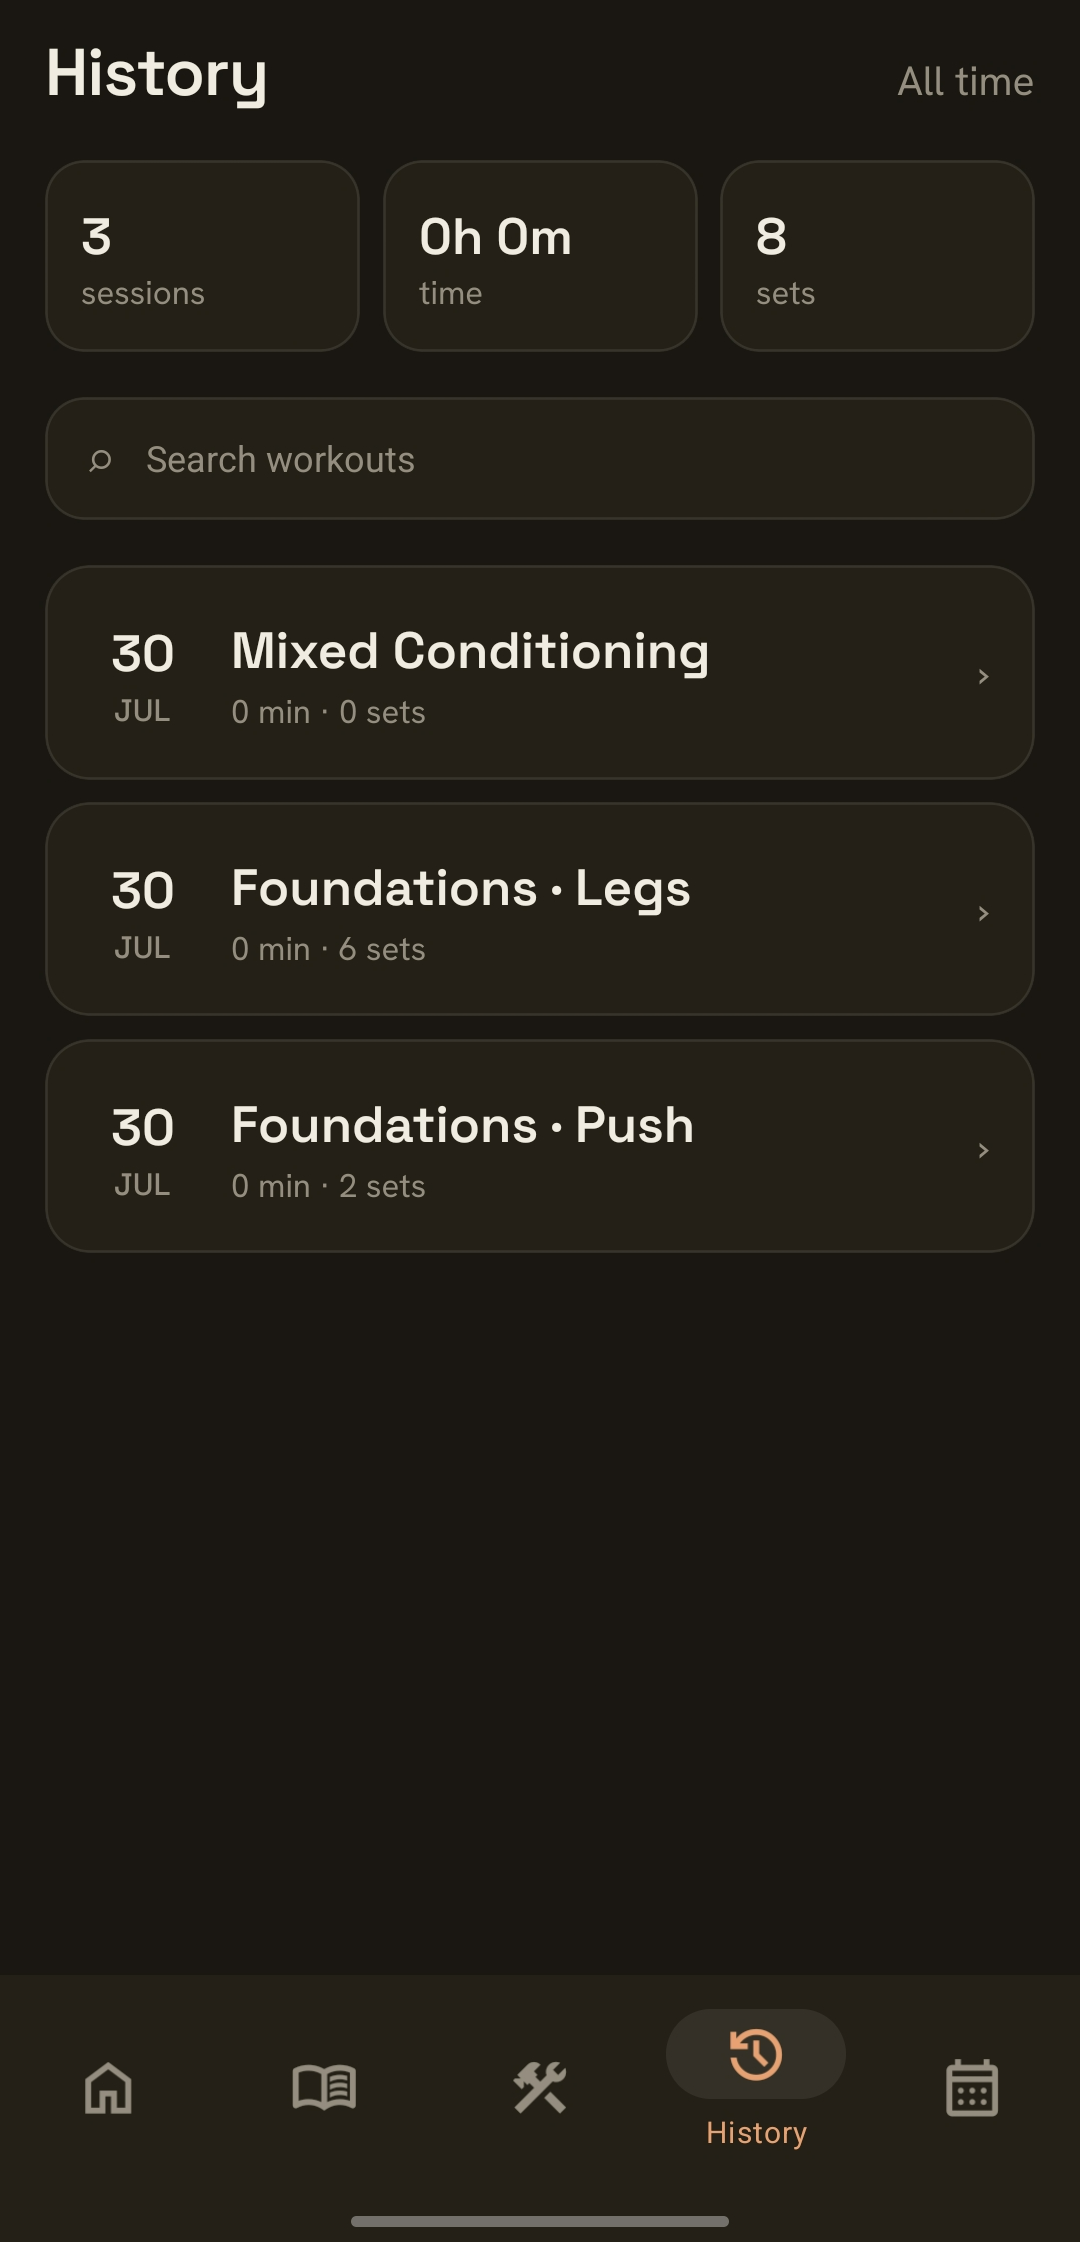
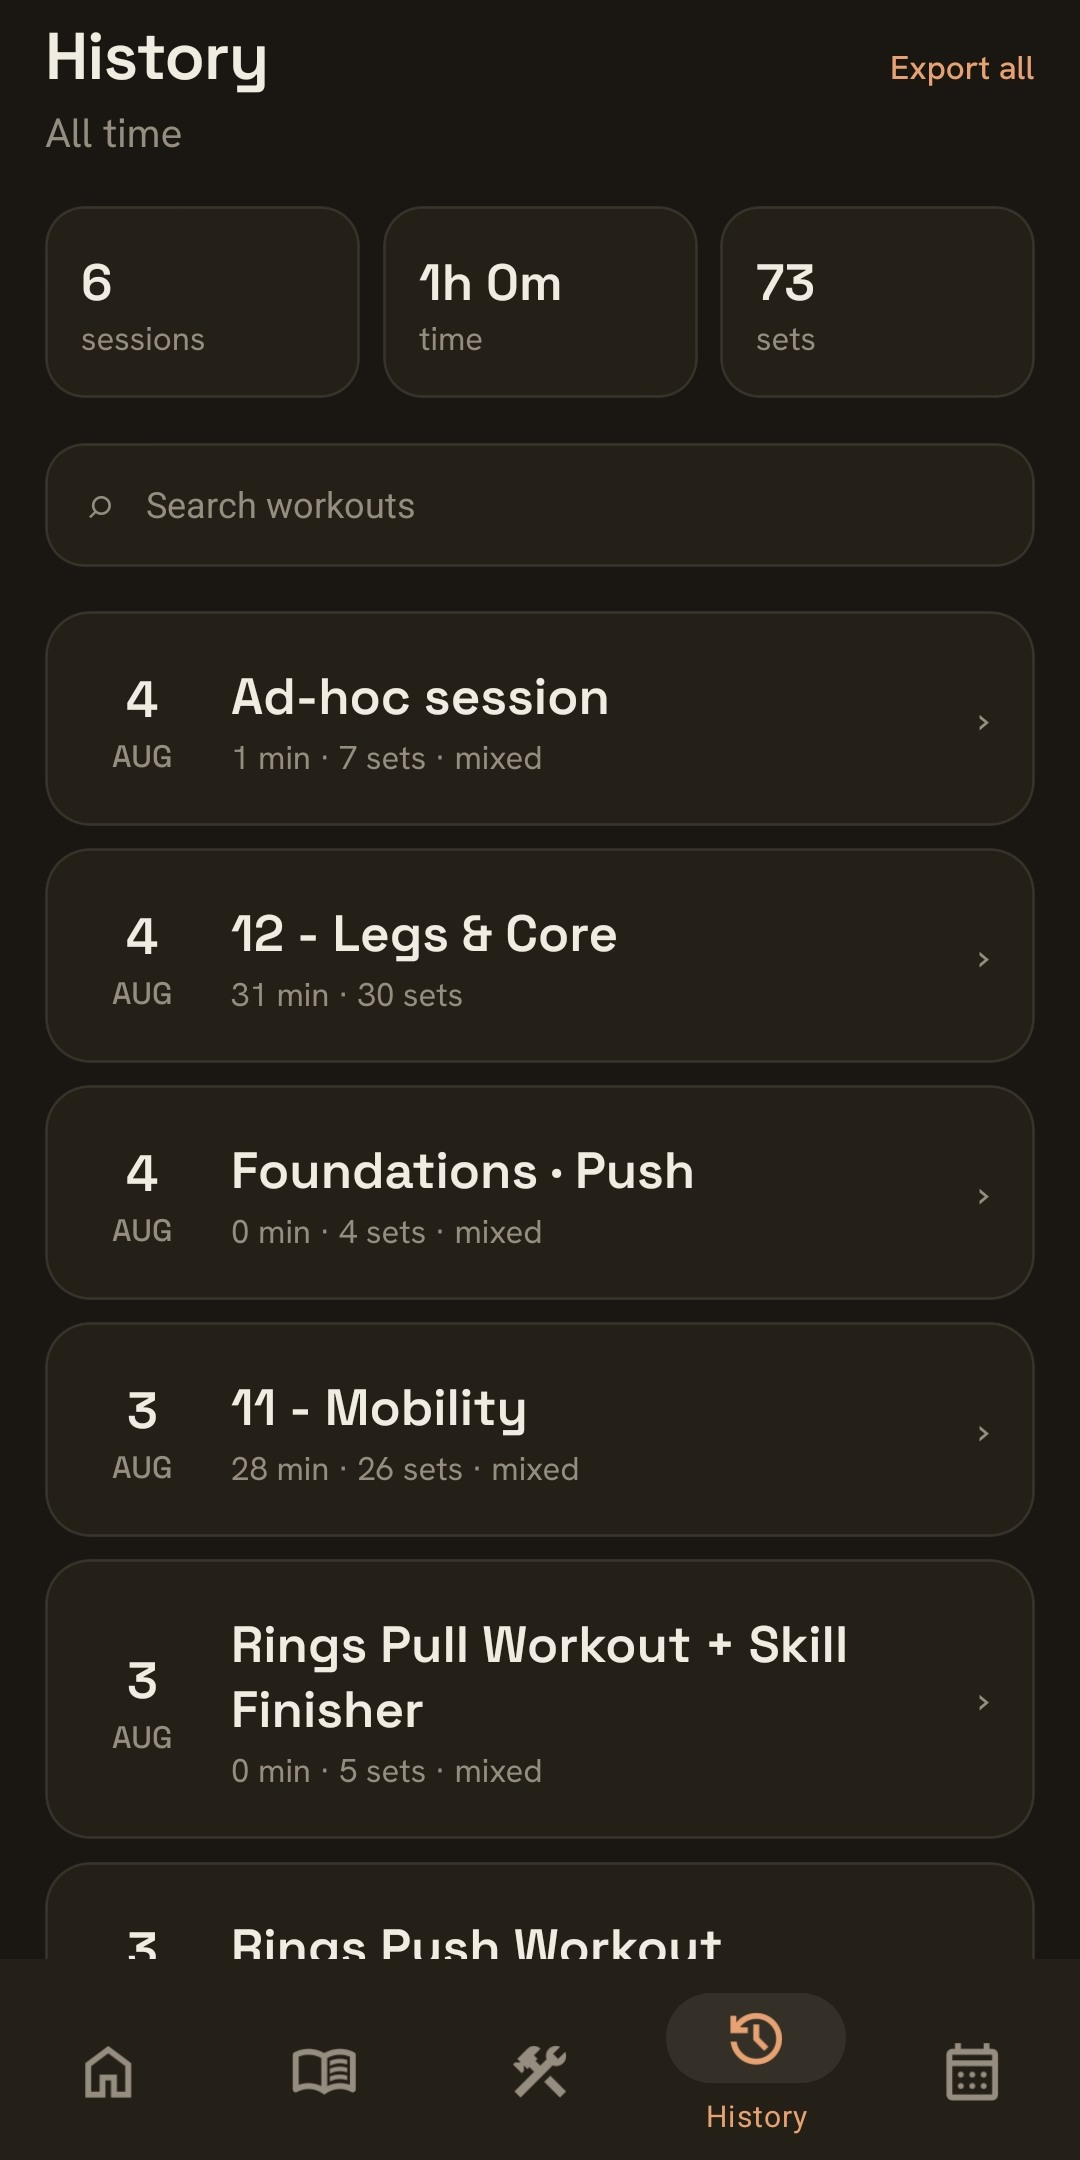
Re-capture the screenshots against a populated library, runner leading
The captures dated from 30 July, before any of the August work. The landing
page had just been rewritten (#58) to claim the set row shows what you
lifted last time and marks a record as it happens — beside a screenshot of
a set row with neither. The alt text described the old screen too, which is
what a screen-reader user got instead of the picture. Closes #59.

New captures from a real library: 347 exercises, 27 workouts, six logged
sessions, a non-zero streak, an ad-hoc session in the history list. The old
lead showed a zeroed streak and an empty Recent, which the issue called the
worst possible first impression.

Trimmed for Play rather than letterboxed. Sources are 1080x2340; the status
bar (y 32..71) and the gesture pill (y 2314..2324) are both removed and the
result is exactly 1080x2160 — 2x the width, which is Play's ceiling. The
crop window is centred on each screen's own content rather than fixed,
because the layouts differ: the runner has no tab bar and its action button
sits ~70px lower than the tab bar does elsewhere, so one window either
clipped that button or left the tab screens lopsided. Boundaries were
measured off the pixels, not guessed, and the reps shots were re-checked
after cropping to confirm the PR pill survived.

session-hiit is still the July capture — the interval screen did not change
in the August work, so it remains accurate — put through the same trim so it
matches the rest.
[…]

diff --git a/site/index.html b/site/index.html
@@ -168,9 +168,9 @@
                   <div class="screen">
                     <img
                       src="assets/img/today.jpg"
-                      alt="Kettle home screen showing today's workout, Foundations · Push, queued as Week 1 Day 1 with a Start session button."
+                      alt="Kettle home screen: a 2-day streak and 6 sessions this week, with 09 - Push queued as week 6 Wednesday — its blocks listed as chips, an estimated 32 minutes, and Start session below."
                       width="1080"
-                      height="2242"
+                      height="2160"
                       loading="lazy" />
                   </div>
                 </div>
@@ -214,7 +214,7 @@
                       src="assets/img/session-hiit.jpg"
                       alt="Session runner mid-HIIT: Burpees, round 1 of 4, a large 0:38 countdown of 0:40 total, with Pause and Skip controls."
                       width="1080"
-                      height="2242"
+                      height="2160"
                       loading="lazy" />
                   </div>
                 </div>
@@ -222,9 +222,19 @@
                   <div class="screen">
                     <img
                       src="assets/img/session-reps.jpg"
-                      alt="Session runner for a reps set: Push-ups, set 1 of 3, target 8–15, a large rep counter, load and RPE inputs, and Log set."
+                      alt="Session runner on a reps set, showing what was lifted last time on that same set number with a PR badge beside it, above a large rep counter, load and RPE controls, and Log set."
                       width="1080"
-                      height="2242"
+                      height="2160"
+                      loading="lazy" />
+                  </div>
+                </div>
+                <div class="phone">
+                  <div class="screen">
+                    <img
+                      src="assets/img/session-hold.jpg"
+                      alt="Session runner on a timed hold, counting up against its target with a progress bar and the next block previewed below."
+                      width="1080"
+                      height="2160"
                       loading="lazy" />
                   </div>
                 </div>
@@ -249,9 +259,9 @@
                   <div class="screen">
                     <img
                       src="assets/img/workouts.jpg"
-                      alt="Workouts list showing seven built workouts such as Foundations · Push and Mixed Conditioning, each with block count and estimated duration."
+                      alt="Workout list, 27 of them: Foundations · Push, Legs and Pull, two Dumbbell Full Body days and Mixed Conditioning, each with a block count, a mixed-type summary and an estimated duration."
                       width="1080"
-                      height="2242"
+                      height="2160"
                       loading="lazy" />
                   </div>
                 </div>
@@ -261,7 +271,7 @@
                       src="assets/img/import.jpg"
                       alt="Import library sheet: choose a YAML file or paste YAML instead, a button to copy the format for an assistant, and a Merge and import action."
                       width="1080"
-                      height="2242"
+                      height="2160"
                       loading="lazy" />
                   </div>
                 </div>
@@ -285,7 +295,7 @@
                       src="assets/img/programs.jpg"
                       alt="Programs list with two multi-week programs: Foundations · 4 Weeks · No Equipment and Dumbbell Strength · 4 Weeks, each noting weeks 1–4 and per-week overrides."
                       width="1080"
-                      height="2242"
+                      height="2160"
                       loading="lazy" />
                   </div>
                 </div>
@@ -293,9 +303,9 @@
                   <div class="screen">
                     <img
                       src="assets/img/today.jpg"
-                      alt="Today screen with the program's next day queued: Foundations · Push, Week 1 Day 1, block chips and an estimated 12 minutes."
+                      alt="Today screen with the program's next day queued automatically: 09 - Push, labelled week 6 Wednesday, with its blocks as chips and a deload note."
                       width="1080"
-                      height="2242"
+                      height="2160"
                       loading="lazy" />
                   </div>
                 </div>
@@ -319,10 +329,20 @@
                 <div class="phone">
                   <div class="screen">
                     <img
-                      src="assets/img/history.jpg"
-                      alt="History screen: three sessions, 8 sets logged all time, a workout search field, and dated entries for Mixed Conditioning and two Foundations sessions."
+                      src="assets/img/session-complete.jpg"
+                      alt="The end of a session: a checkmark, the workout name, and a card marking a personal record for one exercise with an estimated one-rep max under it."
                       width="1080"
-                      height="2242"
+                      height="2160"
+                      loading="lazy" />
+                  </div>
+                </div>
+                <div class="phone">
+                  <div class="screen">
+                    <img
+                      src="assets/img/history.jpg"
+                      alt="History screen: 6 sessions, 73 sets logged all time, a workout search field, and dated entries including an ad-hoc session and several named workouts."
+                      width="1080"
+                      height="2160"
                       loading="lazy" />
                   </div>
                 </div>

diff --git a/store/build-assets.js b/store/build-assets.js
@@ -42,16 +42,33 @@ const ROOT = path.join(__dirname, '..');
 const OUT = path.join(__dirname, 'out');
 
 /**
- * Play: "Maximum dimension cannot exceed twice the minimum dimension." The captures are 1080x2242,
- * and 2 * 1080 is 2160, so they are 82px over and get rejected. Trimmed from the bottom, which is
- * the gesture-pill band and the only strip with nothing worth keeping — letterboxing to fit would
- * put visible bars down both sides instead.
+ * Play: "Maximum dimension cannot exceed twice the minimum dimension." 2 * 1080 is 2160, so that is
+ * the ceiling, and the extract below enforces it however tall the source happens to be.
+ *
+ * The captures used to be 1080x2242 and were trimmed here, from the bottom, because the gesture-pill
+ * band was the only strip with nothing worth keeping. The 2026-08-04 set is cropped to 2160 at
+ * capture time instead — both the status bar and the gesture pill removed, with the window centred on
+ * each screen's own content — so this extract is now a no-op guard rather than the thing doing the
+ * work. It stays for the next capture that arrives oversized. Letterboxing to fit would put visible
+ * bars down both sides, which is why neither approach does it.
  */
 const SHOT_W = 1080;
 const SHOT_H = 2160;
 
-/** Order matters: this is the order they appear in the listing. Runner first, after the hook. */
-const SHOTS = ['today', 'session-reps', 'session-hiit', 'workouts', 'programs', 'history', 'import'];
+/**
+ * Order matters: this is the order they appear in the listing, and Play caps a phone listing at
+ * **eight**. That cap is why this is a chosen subset rather than every screen that has a capture —
+ * `site/assets/img` also holds session-hold, library and settings, which the landing page can afford
+ * to show and the listing cannot.
+ *
+ * The runner leads, per the repositioned pitch (#58): the set row carrying "last time" and the PR
+ * marker is the single image that evidences the claim the listing now opens with, and the completion
+ * screen is the only one showing a named record with an estimated 1RM. Drop either of those before
+ * dropping a list screen and the copy is left unbacked.
+ */
+const SHOTS = ['session-reps', 'session-hiit', 'session-complete', 'today', 'workouts', 'programs', 'history', 'import'];
+
+if (SHOTS.length > 8) throw new Error(`Play allows 8 phone screenshots; SHOTS lists ${SHOTS.length}`);
 
 async function icon() {
   // 512x512 32-bit PNG, sRGB, under 1024 KB. The source is a full square with no transparency and

diff --git a/store/README.md b/store/README.md
@@ -36,15 +36,23 @@ would breach a Play limit — see "What the limits actually are" below.
 | Phone screenshots | `screen-01..07-*.png` | `site/assets/img/*.jpg` |
 
 The screenshots are the **same captures the landing page uses**. One set of images, two consumers —
-re-capture once and both update.
+re-capture once and both update. `site/assets/img` holds more than the listing can show (Play caps a
+phone listing at eight), so `SHOTS` in the script is the chosen subset and its order is the listing's
+order.
 
 ## What the limits actually are
 
 Each of these cost a rejected upload or a wrong guess once, so they are asserted in the script:
 
-- **Screenshots: max dimension ≤ 2× min dimension.** The captures are 1080×2242 and 2×1080 is 2160,
-  so they are 82px too tall as taken. Trimmed from the bottom, which is the gesture-pill band.
-  Letterboxing to fit would put visible bars down both sides.
+- **Screenshots: max dimension ≤ 2× min dimension**, and **at most eight** per device type. 2×1080
+  is 2160, so that is the height ceiling; `build-assets.js` enforces both, the second with an explicit
+  throw so a ninth entry in `SHOTS` fails loudly rather than at upload.
+
+  The 2026-08-04 captures are cropped to 2160 at capture time — status bar and gesture pill both
+  removed, window centred on each screen's own content — so the extract in the script is a no-op guard
+  for them. Earlier captures were 1080x2242 and got trimmed from the bottom, the gesture-pill band
+  being the only strip with nothing worth keeping. Letterboxing to fit would put visible bars down
+  both sides, which is why neither approach does it.
 - **App icon: full square, no transparency, no baked corner radius or shadow.** Play applies its own
   30% radius and shadow, so pre-rounding doubles up. The script asserts zero non-opaque pixels.
 - **Feature graphic: no alpha channel.** Flattened explicitly.
@@ -296,8 +304,8 @@ do not resolve on a locally installed APK.
 
 ## Open
 
-- The lead screenshot (`today`) shows a zeroed streak and an empty Recent list. Capture it again with
-  a few sessions logged — it is the first image anyone sees.
-- `screen-07-import` predates the removal of the leading glyphs on that screen.
 - No `og:image` card for the site yet; if one is made, it is a website asset and outside Play's
   scope, but reusing it as a listing graphic would put it back in scope.
+- The captures are of a **real** library and log — 347 exercises, real workout names, actual history.
+  That is the populated state the listing wanted, and it is public once uploaded. Re-capturing against
+  seeded data is the alternative if that ever becomes unwanted.
